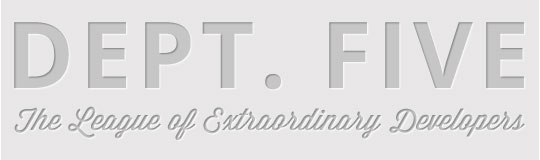
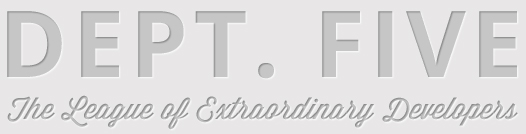
the times they are a changing

diff --git a/css/style.css b/css/style.css
@@ -17,12 +17,15 @@ body {
 	font-family: Century Gothic, sans-serif;
 }
 
+.ltie9 body {
+	background:#e8e7e7;
+}
+
 header#header {
 	height:62px;
 	background:url(../images/nav-back.jpg) repeat-x;
 	margin:0;
 	padding:0;
-	padding:0 150px;
 	box-shadow:0 0 15px #000;
 }
 
@@ -42,8 +45,12 @@ header#header ul {
 header#header ul li {
 	display:inline-block;
 	color:#ececec;
-	margin-right:70px;
+	margin-right:60px;
 	text-align:left;
+}
+
+.ie7 header#header ul li {
+	display: inline;
 }
 
 header#header ul li span {
@@ -68,18 +75,31 @@ header#header ul li.currentPage a:link, header#header ul li.currentPage a:visite
 }
 
 figure#logo {
-	width:900px;
-	margin:0 auto;
+	height: 285px;
+	margin: -30px auto 0;
+	width: 900px;
+	display: block;
 }
 
-figure#logo img {
-	position:absolute;
-	margin-top:-20px;
+figure#logo #dpt5 {
+	margin-bottom:80px;
+}
+
+figure#coolShit {
+	margin: 55px auto 0;
+	padding-right: 60px;
+	text-align: right;
+	width: 840px;
 }
 
 footer#footer {
-	height:62px;
-	background:url(../images/nav-back.jpg) repeat-x;
-	margin:0;
-	padding:0;
+	background: url("http://jakelovedev.com/wdim393/d5/css/../images/nav-back.jpg") repeat-x scroll 0 0 transparent;
+	bottom: 0;
+	color: #717171;
+	height: 42px;
+	margin: 0;
+	padding: 20px 0 0;
+	position: absolute;
+	text-align: center;
+	width: 100%;
 }

diff --git a/index.html b/index.html
@@ -1,5 +1,16 @@
 <!DOCTYPE html>
-<html lang="en">
+<!--[if IE 9]>
+<html class="ie9 ie" xmlns="http://www.w3.org/1999/xhtml" lang="en">
+<![endif]-->
+<!--[if IE 8]>
+<html class="ie8 ie ltie9" xmlns="http://www.w3.org/1999/xhtml" lang="en">
+<![endif]-->
+<!--[if IE 7]>
+<html class="ie7 ie ltie9" xmlns="http://www.w3.org/1999/xhtml" lang="en">
+<![endif]-->
+<!--[if !IE]>
+<html xmlns="http://www.w3.org/1999/xhtml" lang="en">
+<![endif]-->
 <head>
 <meta charset="utf-8" />
 <title>[D5] Web Development - Welcome</title>
@@ -23,11 +34,11 @@
         <li><span>04.</span><br /><a href="#">Blog</a></li>
       </ul>
     </menu>
-    <figure id="logo">
-      <img src="images/logo.png" height="285" width="290" alt="D5" />
-    </figure>
   </header>
-  
+  <figure id="logo">
+    <img src="images/logo.png" height="287" width="328" alt="D5" />
+    <img id="dpt5" src="images/DEPT5.jpg" height="134" width="526" alt="Department 5 - The League of Extraordinary Developers" />
+  </figure>
   <footer id="footer">
   &copy; D5 Development 2012 | Every Right Reserved | Your Mom Says Hi
   <progress id="progress" max="10" value="1">
